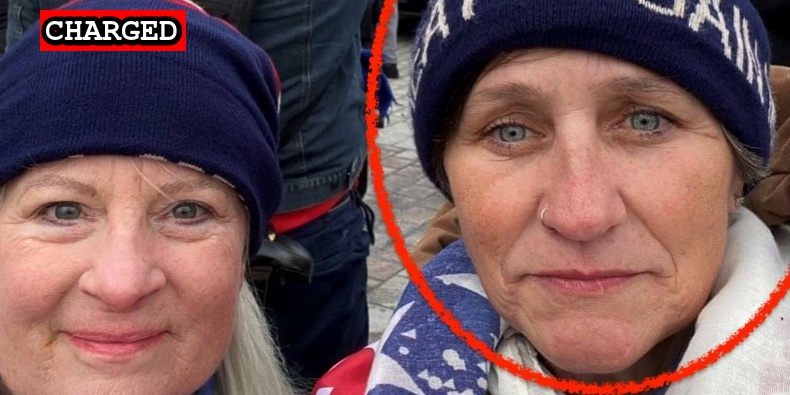
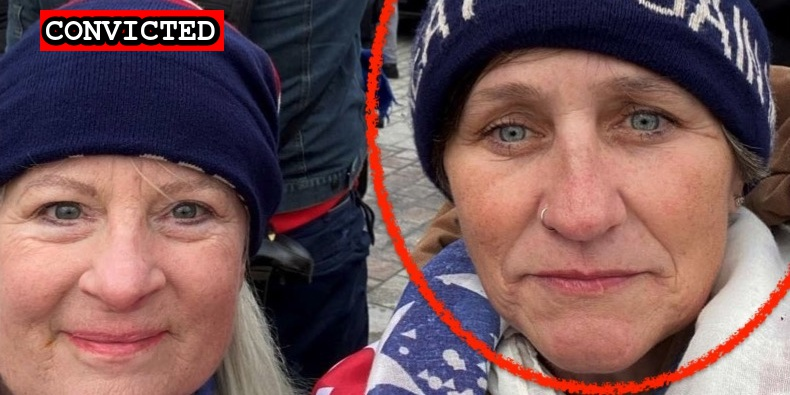
Latest import

Changed region(s): [[0.0608, 0.0, 0.3038, 0.1519]]

diff --git a/docs/_suspects/anthony-scirica.md b/docs/_suspects/anthony-scirica.md
@@ -31,17 +31,16 @@ description: Click for latest case details. Suspects innocent until proven guilt
 author: seditiontrack
 layout: suspect
 published: true
-caseNumber:
+caseNumber: 1:21-cr-457
 videos:
 charges:
-  - code: 18 USC § 5104(e)(2)(G)
-    title: Parading, demonstrating or picketing in a Capitol building
-    url: https://www.law.cornell.edu/uscode/text/40/5104
-    felony: false
+- code: 18 USC § 5104(e)(2)(G)
+  title: Parading, demonstrating or picketing in a Capitol building
+  url: https://www.law.cornell.edu/uscode/text/40/5104
+  felony: false
 sentence:
 ---
-
 - [News Report](https://www.newsweek.com/capitol-rioter-anthony-scirica-charged-after-friend-snapchats-about-him-tv-1601370)
-- [Statement of Facts](https://www.justice.gov/usao-dc/case-multi-defendant/file/1405461/download)
-- [Information](https://extremism.gwu.edu/sites/g/files/zaxdzs2191/f/Anthony%20Scirica%20Information.pdf)
-- [Plea Agreement](https://extremism.gwu.edu/sites/g/files/zaxdzs2191/f/Anthony%20Scirica%20Plea%20Agreement.pdf)
+- [Statement of Facts](https://www.justice.gov/usao-dc/case-multi-defendant/file/1438301/download)
+- [Information](https://www.justice.gov/usao-dc/case-multi-defendant/file/1413476/download)
+- [Plea Agreement](https://www.justice.gov/usao-dc/case-multi-defendant/file/1438296/download)

diff --git a/docs/_suspects/esther-schwemmer.md b/docs/_suspects/esther-schwemmer.md
@@ -4,15 +4,15 @@ lastName: Schwemmer
 hashtag: EstherSchwemmer
 aka:
 residence: Kansas
-status: Charged
+status: Convicted
 date: 2021-04-15
 charged: 2021-04-15
 indicted:
-convicted:
+convicted: 2021-09-29
 sentenced:
 dismissed:
 deceased:
-plea_hearing:
+plea_hearing: 2021-09-29
 sentencing:
 age:
 occupation:
@@ -31,11 +31,13 @@ description: Click for latest case details. Suspects innocent until proven guilt
 author: seditiontrack
 layout: suspect
 published: true
-caseNumber:
+caseNumber: 1:21-cr-364
 videos:
 charges:
 sentence:
 ---
+
 - [News Report](https://www.msn.com/en-us/news/us/two-kansas-women-arrested-in-jan-6-capitol-riot/ar-BB1g2yEp)
-- [Statement of Facts](https://extremism.gwu.edu/sites/g/files/zaxdzs2191/f/Jennifer%20Parks%20and%20Esther%20Schwemmer%20Statement%20of%20Facts.pdf)
+- [Statement of Facts](https://www.justice.gov/usao-dc/case-multi-defendant/file/1438221/download)
 - [Information](https://extremism.gwu.edu/sites/g/files/zaxdzs2191/f/Esther%20Schwemmer%20Information.pdf)
+- [Plea Agreement](https://www.justice.gov/usao-dc/case-multi-defendant/file/1438216/download)

diff --git a/docs/_suspects/eduardo-alvear-gonzalez.md b/docs/_suspects/eduardo-alvear-gonzalez.md
@@ -34,14 +34,14 @@ published: true
 caseNumber: 1:21-cr-115
 videos:
 charges:
-  - code: 18 USC § 5104(e)(2)(G)
-    title: Parading, demonstrating or picketing in a Capitol building
-    url: https://www.law.cornell.edu/uscode/text/40/5104
-    felony: false
+- code: 18 USC § 5104(e)(2)(G)
+  title: Parading, demonstrating or picketing in a Capitol building
+  url: https://www.law.cornell.edu/uscode/text/40/5104
+  felony: false
 sentence:
 ---
-
 - [News Report](https://www.pilotonline.com/news/crime/vp-nw-gonzalez-capitol-riot-20210211-lai4xcqvqnbdrb3fvsq6mffrdy-story.html)
-- [Statement of Facts](https://www.justice.gov/usao-dc/case-multi-defendant/file/1378626/download)
+- [Statement of Facts](https://www.justice.gov/usao-dc/case-multi-defendant/file/1438326/download)
 - [Self Incrimination (VIDEO)](https://twitter.com/RichieMcGinniss/status/1346959229022826498)
 - [Information](https://www.justice.gov/usao-dc/case-multi-defendant/file/1378636/download)
+- [Plea Agreement](https://www.justice.gov/usao-dc/case-multi-defendant/file/1438321/download)

diff --git a/docs/_suspects/troy-smocks.md b/docs/_suspects/troy-smocks.md
@@ -43,6 +43,6 @@ sentence:
 - [News Report](https://dfw.cbslocal.com/2021/01/19/capitol-rioter-dallas-troy-smocks-plans-return-dc-inauguration-day/)
 - [DOJ Press Release](https://www.justice.gov/usao-dc/pr/texas-man-arrested-and-charged-making-threats-regarding-events-us-capitol)
 - [Complaint](https://www.justice.gov/opa/page/file/1355891/download)
-- [Statement of Facts](https://www.justice.gov/opa/page/file/1355896/download)
+- [Statement of Facts](https://www.justice.gov/usao-dc/case-multi-defendant/file/1438316/download)
 - [Indictment](https://www.justice.gov/usao-dc/case-multi-defendant/file/1377816/download)
-- [Plea Agreement](https://extremism.gwu.edu/sites/g/files/zaxdzs2191/f/Troy%20Anthony%20Smocks%20Plea%20Agreement.pdf)
+- [Plea Agreement](https://www.justice.gov/usao-dc/case-multi-defendant/file/1438311/download)

diff --git a/docs/_suspects/jackson-kostolsky.md b/docs/_suspects/jackson-kostolsky.md
@@ -41,6 +41,6 @@ charges:
 sentence:
 ---
 - [News Report](https://www.wfmz.com/news/area/lehighvalley/paperwork-video-shows-lehigh-county-man-was-at-u-s-capitol-during-riot/article_540d8556-7dee-11eb-845a-c3b80faa77ff.html)
-- [Statement of Facts](https://www.justice.gov/usao-dc/case-multi-defendant/file/1393611/download)
+- [Statement of Facts](https://www.justice.gov/usao-dc/case-multi-defendant/file/1438206/download)
 - [Information](https://extremism.gwu.edu/sites/g/files/zaxdzs2191/f/Jackson%20Kostolsky%20Information.pdf)
-- [Plea Agreement](https://extremism.gwu.edu/sites/g/files/zaxdzs2191/f/Jackson%20Kostolsky%20Plea%20Agreement.pdf)
+- [Plea Agreement](https://www.justice.gov/usao-dc/case-multi-defendant/file/1438201/download)

diff --git a/docs/_suspects/jennifer-parks.md b/docs/_suspects/jennifer-parks.md
@@ -42,6 +42,6 @@ sentence:
 ---
 - [News Report](https://www.msn.com/en-us/news/us/two-kansas-women-arrested-in-jan-6-capitol-riot/ar-BB1g2yEp)
 - [Complaint](https://www.justice.gov/usao-dc/case-multi-defendant/file/1389181/download)
-- [Statement of Facts](https://www.justice.gov/usao-dc/case-multi-defendant/file/1389186/download)
+- [Statement of Facts](https://www.justice.gov/usao-dc/case-multi-defendant/file/1438186/download)
 - [Information](https://www.justice.gov/usao-dc/case-multi-defendant/file/1413541/download)
-- [Plea Agreement](https://extremism.gwu.edu/sites/g/files/zaxdzs2191/f/Jennifer%20Ruth%20Parks%20Plea%20Agreement.pdf)
+- [Plea Agreement](https://www.justice.gov/usao-dc/case-multi-defendant/file/1438181/download)

diff --git a/docs/_suspects/diana-santos-smith.md b/docs/_suspects/diana-santos-smith.md
@@ -42,6 +42,6 @@ sentence:
 ---
 - [News Report](https://www.mcall.com/news/police/mc-nws-pennsylvania-women-charged-in-capitol-siege-20210130-zsgjdrfdibgpboyuatcphtlaxq-story.html)
 - [Complaint](https://www.justice.gov/opa/page/file/1362581/download)
-- [Statement of Facts](https://www.justice.gov/opa/page/file/1362581/download)
+- [Statement of Facts](https://www.justice.gov/usao-dc/case-multi-defendant/file/1438271/download)
 - [Information](https://www.justice.gov/usao-dc/case-multi-defendant/file/1383076/download)
-- [Plea Agreement](https://extremism.gwu.edu/sites/g/files/zaxdzs2191/f/Diana%20Santos-Smith%20Plea%20Agreement.pdf)
+- [Plea Agreement](https://www.justice.gov/usao-dc/case-multi-defendant/file/1438266/download)

diff --git a/docs/_suspects/dawn-bancroft.md b/docs/_suspects/dawn-bancroft.md
@@ -42,5 +42,6 @@ sentence:
 ---
 - [News Report](https://www.mcall.com/news/police/mc-nws-pennsylvania-women-charged-in-capitol-siege-20210130-zsgjdrfdibgpboyuatcphtlaxq-story.html)
 - [Complaint](https://www.justice.gov/opa/page/file/1362581/download)
-- [Statement of Facts](https://www.justice.gov/opa/page/file/1362581/download)
+- [Statement of Facts](https://www.justice.gov/usao-dc/case-multi-defendant/file/1438246/download)
 - [Information](https://www.justice.gov/usao-dc/case-multi-defendant/file/1383056/download)
+- [Plea Agreement](https://www.justice.gov/usao-dc/case-multi-defendant/file/1438241/download)

diff --git a/docs/_suspects/gary-wickersham.md b/docs/_suspects/gary-wickersham.md
@@ -38,3 +38,4 @@ sentence:
 ---
 - [News Report](https://www.thedailybeast.com/pennsylvania-man-gary-wickersham-arrested-in-capitol-riot-i-can-enter-the-capitol-because-i-pay-my-taxes)
 - [Statement of Facts](https://extremism.gwu.edu/sites/g/files/zaxdzs2191/f/Gary%20Wickersham%20Statement%20of%20Facts.pdf)
+- [Information](https://extremism.gwu.edu/sites/g/files/zaxdzs2191/f/Gary%20Wickersham%20Information.pdf)
